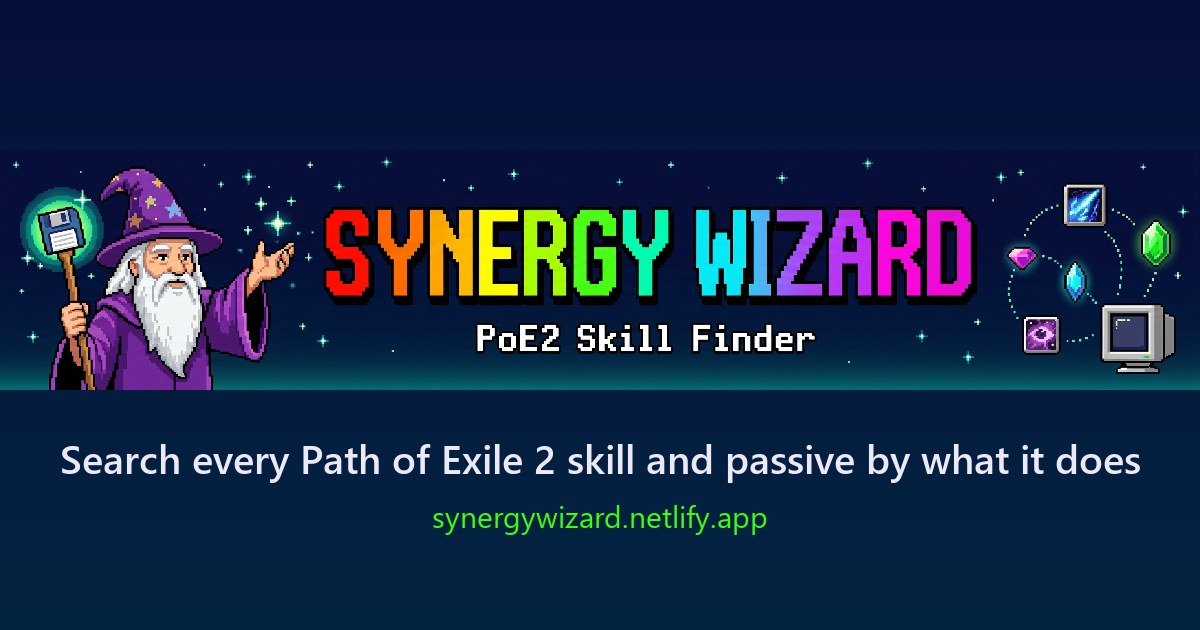
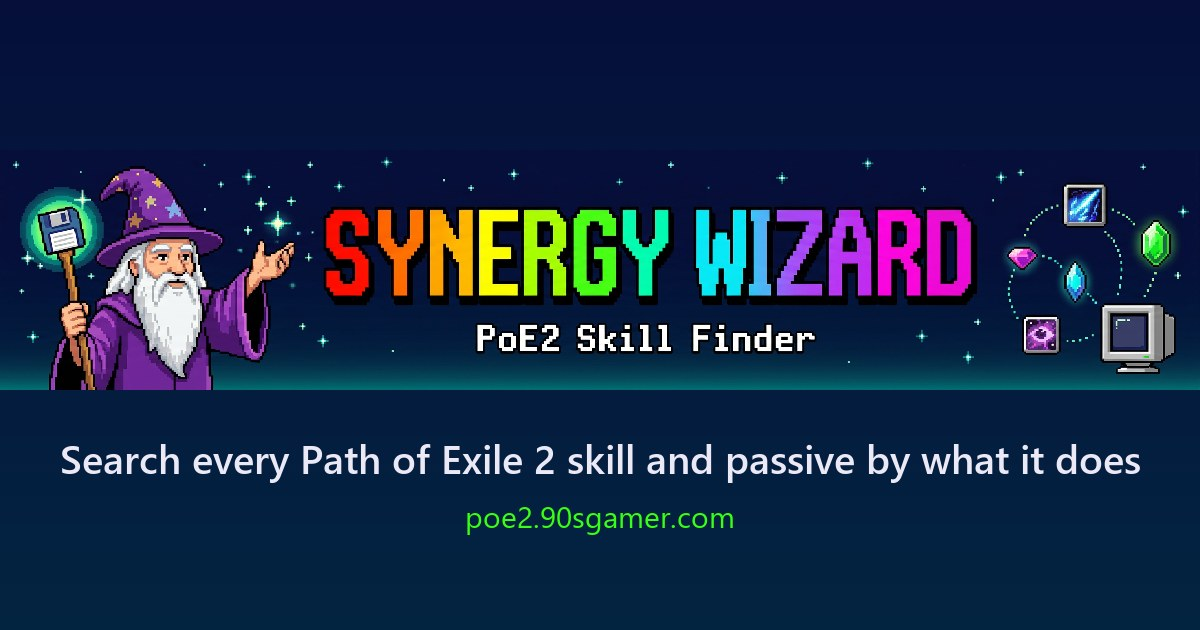
feat: official address poe2.90sgamer.com; old netlify.app address redirects

Changed region(s): [[0.3392, 0.7841, 0.6475, 0.8444]]

diff --git a/index.html b/index.html
@@ -9,10 +9,11 @@
     <link rel="icon" type="image/png" href="/favicon.png" />
     <link rel="apple-touch-icon" href="/apple-touch-icon.png" />
     <meta property="og:type" content="website" />
-    <meta property="og:url" content="https://synergywizard.netlify.app/" />
+    <meta property="og:url" content="https://poe2.90sgamer.com/" />
+    <link rel="canonical" href="https://poe2.90sgamer.com/" />
     <meta property="og:title" content="Synergy Wizard by 90sGamer: PoE2 skill and passive search" />
     <meta property="og:description" content="Ask in plain words, find the Path of Exile 2 skill, support or passive that does it. Free, updated every patch." />
-    <meta property="og:image" content="https://synergywizard.netlify.app/og.jpg" />
+    <meta property="og:image" content="https://poe2.90sgamer.com/og.jpg" />
     <meta name="twitter:card" content="summary_large_image" />
     <link rel="preconnect" href="https://fonts.googleapis.com" />
     <link rel="preconnect" href="https://fonts.gstatic.com" crossorigin />

diff --git a/README.md b/README.md
@@ -1,7 +1,7 @@
 # Synergy Wizard
 
 Search every Path of Exile 2 skill gem, support and passive by what it does
-("protect me for a few seconds"). Live at https://synergywizard.netlify.app.
+("protect me for a few seconds"). Live at https://poe2.90sgamer.com (also https://90sgamer.com/poe2).
 
 Everything runs in the browser from two static files, so hosting costs nothing
 beyond Netlify and there is no database, server function or paid AI.
